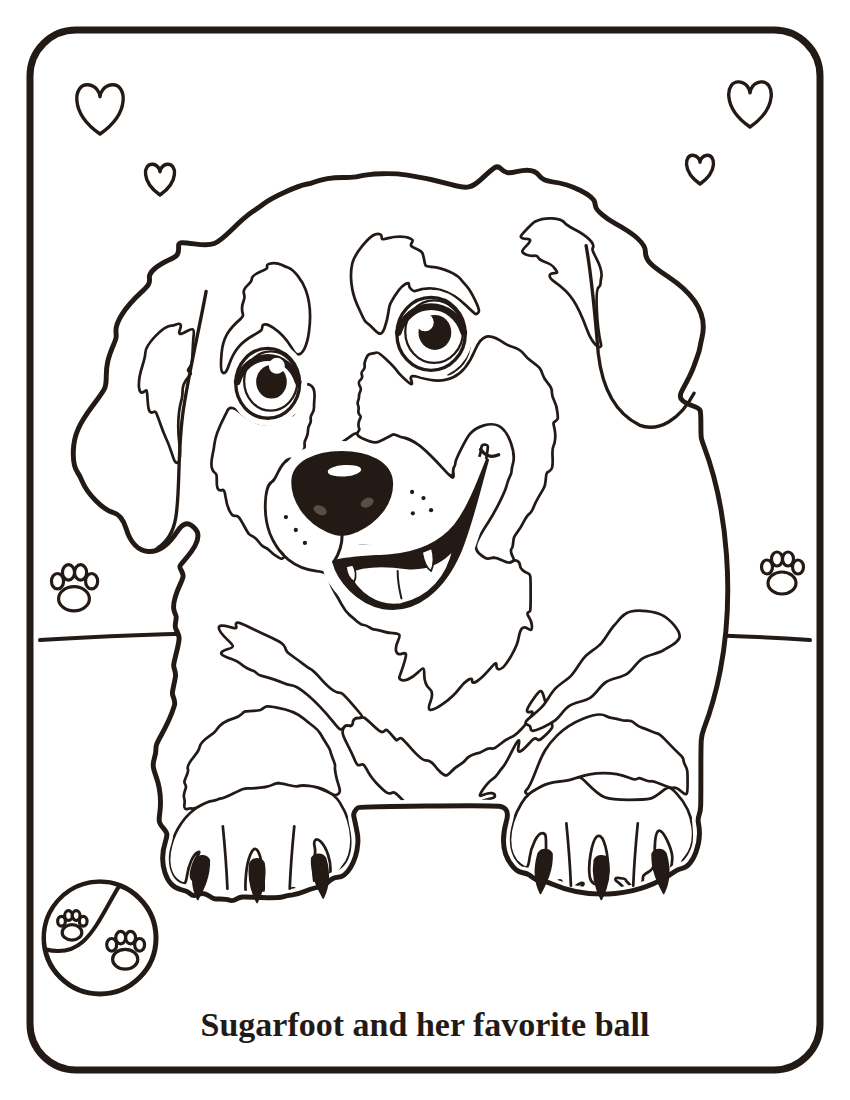
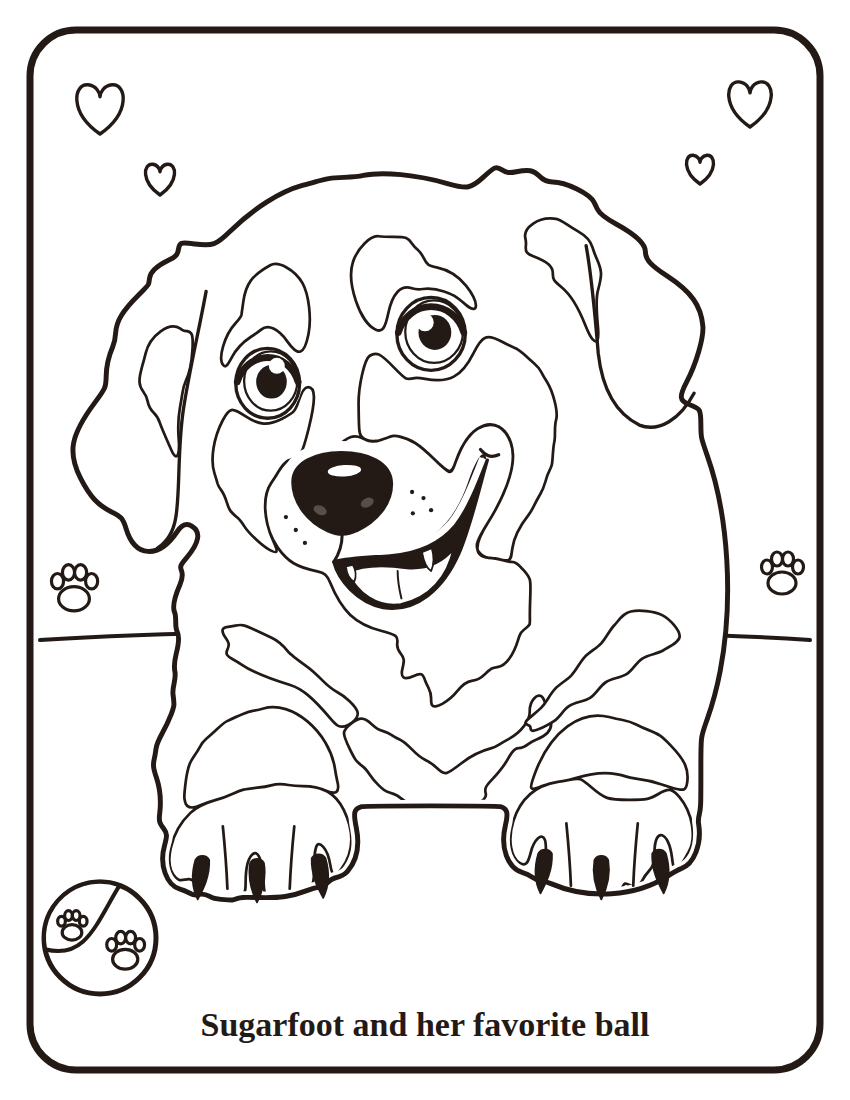
Sugarfoot page: markings smoothed into clean rounded shapes
Claude-Session: https://claude.ai/code/session_01F11x81sfGg3qnfmPYFW4i1

diff --git a/tools/pups2/ref/sfline.py b/tools/pups2/ref/sfline.py
@@ -49,13 +49,15 @@ v = np.stack([cv2.GaussianBlur((cls == k).astype(np.float32), (0, 0), 3.2) for k
 cls = v.argmax(0)
 cls[ADD] = 0
 dog = cv2.morphologyEx(dog.astype(np.uint8), cv2.MORPH_CLOSE, cv2.getStructuringElement(cv2.MORPH_ELLIPSE, (21, 21))).astype(bool)
-dogs = islands(smooth(dog, 3.0), 3000)
+dogs = islands(smooth(dog, 4.5), 3000)
 _ff = np.pad((~dogs).astype(np.uint8), 1, constant_values=1); _m = np.zeros((H + 4, W + 4), np.uint8)
 cv2.floodFill(_ff, _m, (0, 0), 2); dogs = (_ff[1:-1, 1:-1] != 2)
 regs = []
 for k in range(3):
     m = cv2.morphologyEx(((cls == k) & dogs).astype(np.uint8), cv2.MORPH_OPEN, cv2.getStructuringElement(cv2.MORPH_ELLIPSE, (7, 7) if k == 1 else (5, 5))).astype(bool)
     m = islands(m, 900)
+    if k:
+        m = islands(smooth(m, 6.5), 2600)
     regs.append(m)
 
 S = []  # svg parts
@@ -138,19 +140,19 @@ def feats(color):
 # ---------- auto layer ----------
 dd = trace(dogs, 3000, 1.15, .8)
 inner = cv2.erode(dogs.astype(np.uint8), cv2.getStructuringElement(cv2.MORPH_ELLIPSE, (17, 17))).astype(bool)
-fur = ''.join(trace(regs[k], 900, 1.15, .7) for k in (1, 2))
+fur = ''.join(trace(regs[k], 2600, 1.3, 1.2) for k in (1, 2))
 ZONES = ''.join([
-    '<ellipse cx="643" cy="357" rx="52" ry="56"/>', '<ellipse cx="858" cy="292" rx="55" ry="58"/>',
+    '<ellipse cx="643" cy="357" rx="45" ry="49"/>', '<ellipse cx="858" cy="292" rx="48" ry="51"/>',
     '<path d="%s" stroke="#000" stroke-width="30"/>' % NOSE,
-    '<path d="%s" stroke="#000" stroke-width="34"/>' % MOUTH])
+    '<path d="%s" stroke="#000" stroke-width="22"/>' % MOUTH])
 
 def page(color):
     o = ['<defs><clipPath id="in"><path d="%s"/></clipPath><clipPath id="dg"><path d="%s"/></clipPath>' % (trace(inner, 3000, 1.15, .8), dd),
          '<mask id="z"><rect width="%d" height="%d" fill="#fff"/><g fill="#000">%s</g></mask></defs>' % (W, H, ZONES)]
     o.append('<path d="%s" fill="%s"/>' % (dd, '#2B2426' if color else '#fff'))
     if color:
-        o.append('<g clip-path="url(#dg)"><path d="%s" fill="#D9A46A" fill-rule="evenodd"/></g>' % trace(regs[1], 900, 1.15, .7))
-        o.append('<g clip-path="url(#dg)"><path d="%s" fill="#F6EEE2" fill-rule="evenodd"/></g>' % trace(regs[2], 900, 1.15, .7))
+        o.append('<g clip-path="url(#dg)"><path d="%s" fill="#D9A46A" fill-rule="evenodd"/></g>' % trace(regs[1], 2600, 1.3, 1.2))
+        o.append('<g clip-path="url(#dg)"><path d="%s" fill="#F6EEE2" fill-rule="evenodd"/></g>' % trace(regs[2], 2600, 1.3, 1.2))
     o.append('<g clip-path="url(#in)" mask="url(#z)"><path d="%s" fill="none" stroke="%s" stroke-width="3.6" stroke-linejoin="round"/></g>' % (fur, INK))
     o.append('<path d="%s" fill="none" stroke="%s" stroke-width="6.5" stroke-linejoin="round"/>' % (dd, INK))
     o.append(feats(color))
